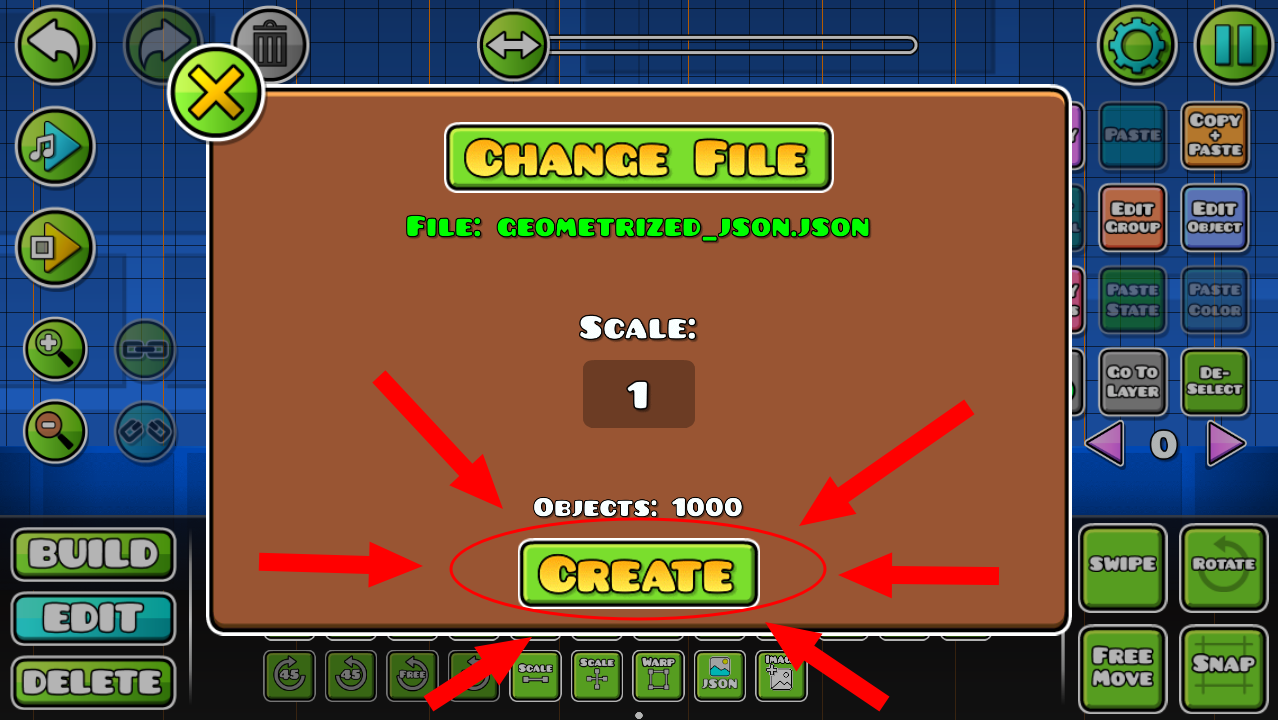
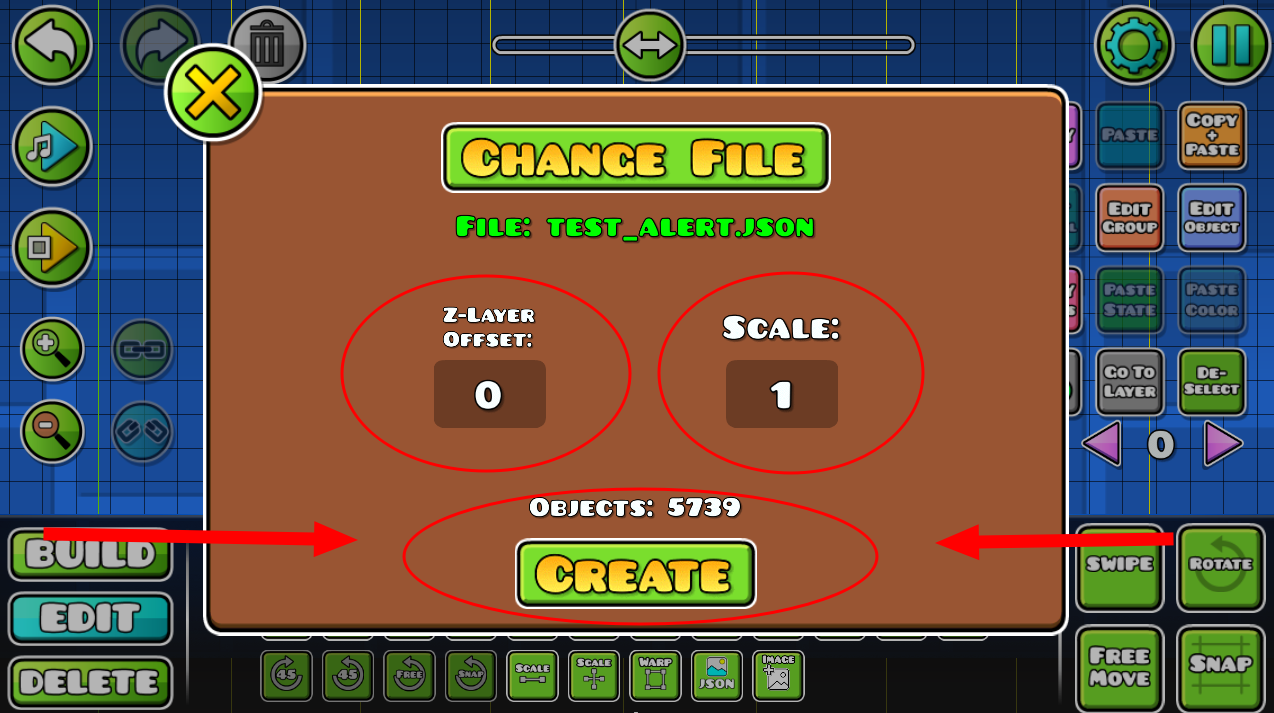
Fixed Tutorial

diff --git a/README.md b/README.md
@@ -66,7 +66,7 @@
 
 ![](https://github.com/ShineUA/geometrize2gd-mod-geode/blob/main/screenshots/7.png)
 
-4. Change scale if you want and click "Create" button.
+4. Change Scale or Z-Layer Offset if you want and click "Create" button.
 
 ![](https://github.com/ShineUA/geometrize2gd-mod-geode/blob/main/screenshots/8.png)
 
